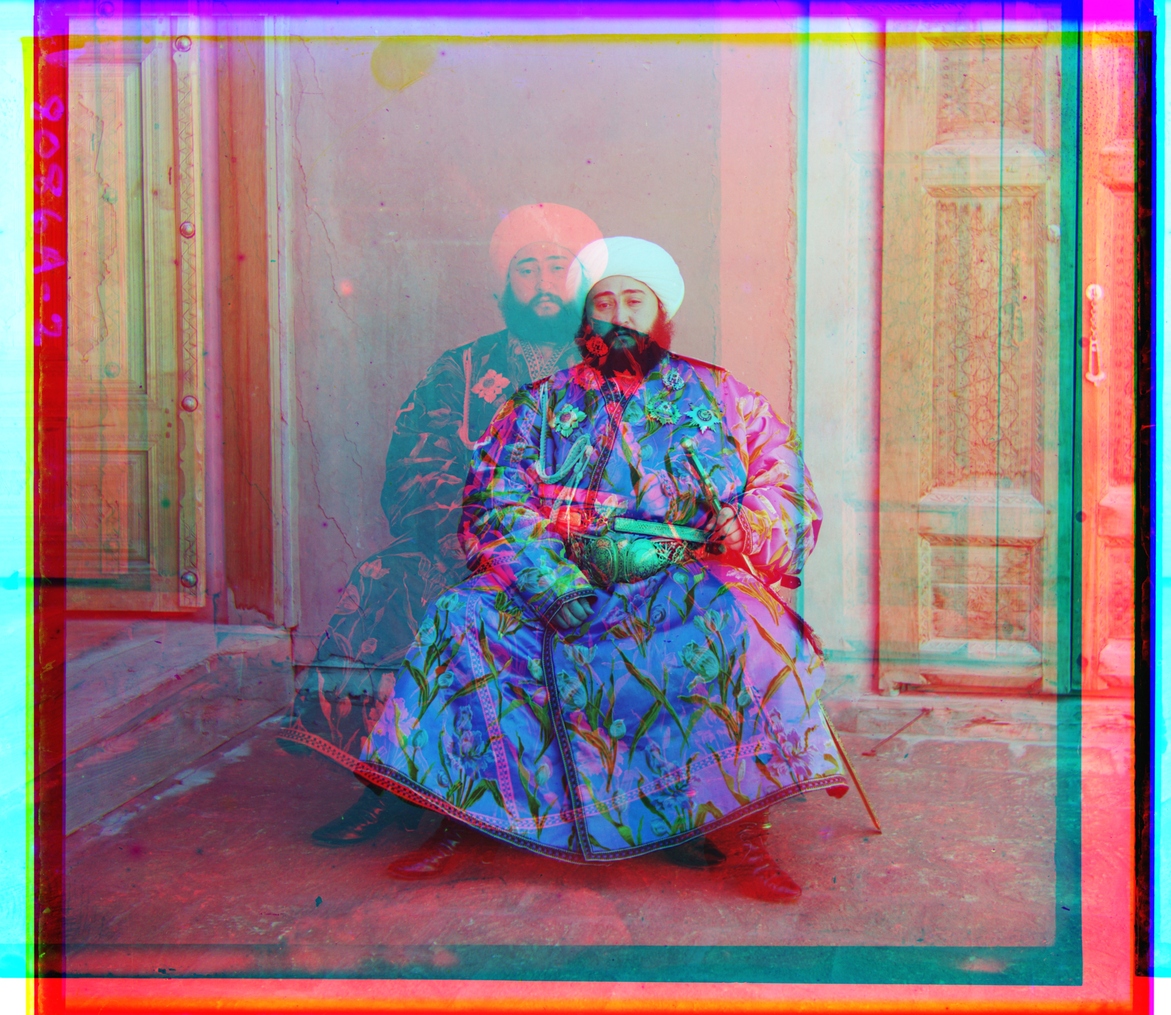
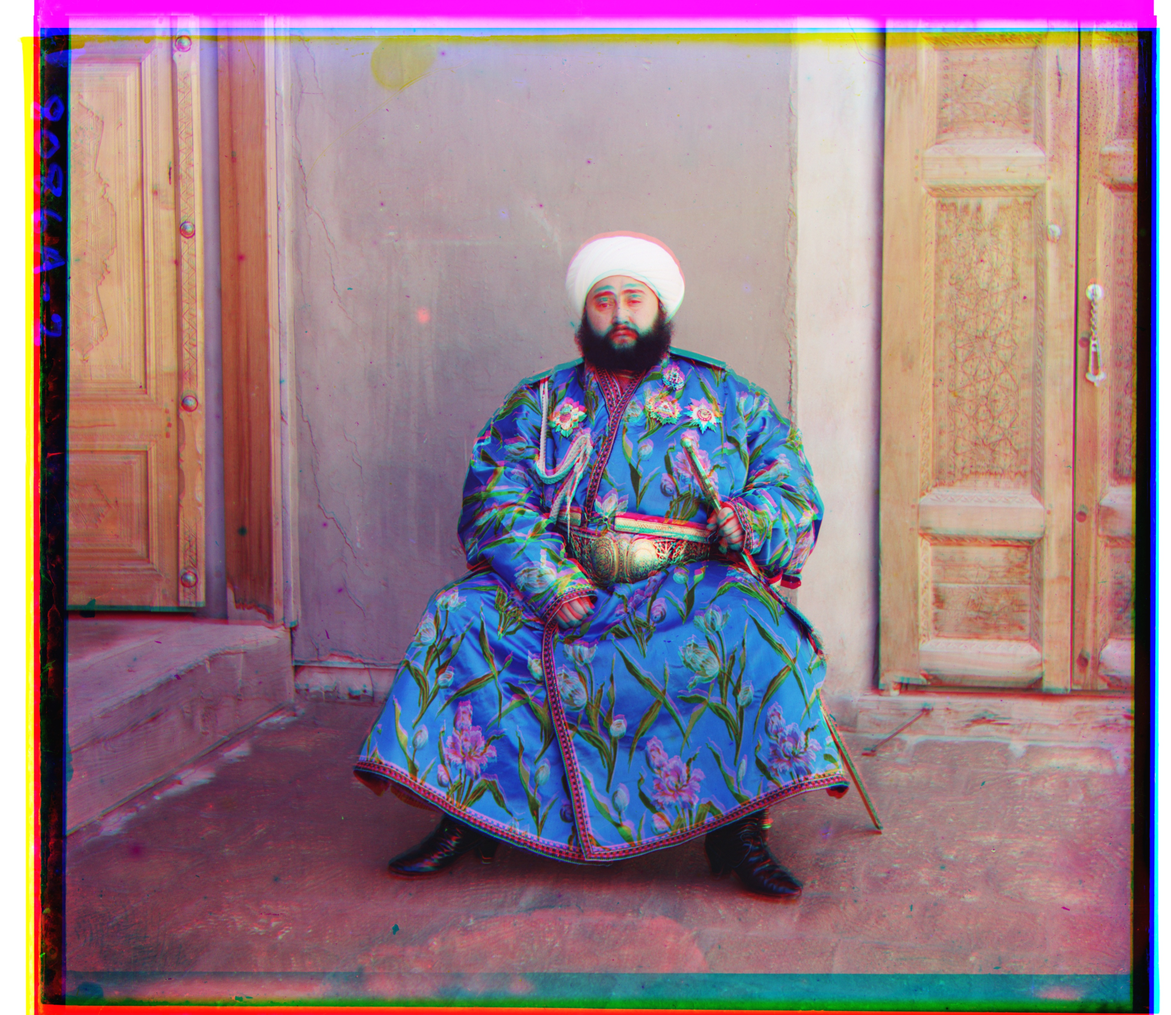
Updated project 1 website

diff --git a/CS180Project1/index.html b/CS180Project1/index.html
@@ -42,7 +42,7 @@
             <p>
                 First, the image is read in grayscale, converted to float64, and the pixel values are normalized to the range [0,1]. The height of the image is then divided by three which is then used to separate it into its blue, green, and red components. The green and red channels are subsequently aligned to the blue channel.<br><br>
 
-                Alignment begins with preprocessing. I found images like emir.tif and cathedral.jpg particularly challenging to align because the intensity values across channels differed so much. To address this, I implemented an edge-based method instead of relying solely on raw pixel intensities. When the Sobel flag is enabled, a Sobel edge detector computes the gradient magnitude, and alignment is performed on these edge maps. With the Sobel flag enabled, I was able to accurately align all of the images. This approach proved far more effective and is discussed further in the Bells & Whistles section below.<br><br>
+                Alignment begins with preprocessing. I found images like emir.tif particularly challenging to align because the intensity values across channels differed so much. To address this, I implemented an edge-based method instead of relying solely on raw pixel intensities. When the Sobel flag is enabled, a Sobel edge detector computes the gradient magnitude, and alignment is performed on these edge maps. With the Sobel flag enabled, I was able to accurately align all of the images. This approach proved far more effective and is discussed further in the Bells & Whistles section below.<br><br>
 
                 The actual alignment is handled with an image pyramid. The images are recursively downsampled (to depth 2 for .jpg and depth 5 for .tif images), and alignment is first estimated at the coarsest scale. At each level, one image is shifted within a search window, and a scoring function evaluates the alignment quality. Each image is cropped by about 10% (an empirically chosen value to remove noisy borders) before a score is calculated. I implemented both Euclidean distance and Normalized Cross-Correlation as scoring metrics, though I opted to use Euclidean distance. After offsets are found at a coarse scale, they are doubled when passed to the next finer scale, where the search is repeated in the same range around those offsets. The coarse-to-fine image pyramid approach makes alignment efficient for both large files (.tif) and smaller files (.jpg), significantly reducing computation time while maintaining accuracy.<br><br>
 
@@ -84,7 +84,7 @@
             <figcaption>
                 harvester.tif <br>
                 Green offset: (17, 60) <br>
-                Red offset: (13, 123)
+                Red offset: (14, 124)
             </figcaption>
         </figure>        
         
@@ -98,11 +98,29 @@
         </figure>
 
         <figure>
-            <img src="./images/out_lady.jpg">
+            <img src="./images/out_italil.jpg">
             <figcaption>
-                lady.tif <br>
-                Green offset: (9, 56) <br>
-                Red offset: (13, 120)
+                italil.tif <br>
+                Green offset: (22, 38) <br>
+                Red offset: (36, 77)
+            </figcaption>
+        </figure>
+
+        <figure>
+            <img src="./images/out_lastochikino.jpg">
+            <figcaption>
+                lastochikino.tif <br>
+                Green offset: (-2, -3) <br>
+                Red offset: (-8, 76)
+            </figcaption>
+        </figure>
+
+        <figure>
+            <img src="./images/out_lugano.jpg">
+            <figcaption>
+                lugano.tif <br>
+                Green offset: (-17, 41) <br>
+                Red offset: (-29, 791)
             </figcaption>
         </figure>
 
@@ -125,29 +143,20 @@
         </figure>
 
         <figure>
-            <img src="./images/out_onion_church.jpg">
-            <figcaption>
-                onion_church.tif <br>
-                Green offset: (24, 52) <br>
-                Red offset: (36, 107)
-            </figcaption>
-        </figure>
-
-        <figure>
-            <img src="./images/out_sculpture.jpg">
-            <figcaption>
-                sculpture.tif <br>
-                Green offset: (-11, 33) <br>
-                Red offset: (-26, 140)
-            </figcaption>
-        </figure>
-
-        <figure>
             <img src="./images/out_self_portrait.jpg">
             <figcaption>
                 self_portrait.tif <br>
-                Green offset: (29, 78) <br>
+                Green offset: (28, 77) <br>
                 Red offset: (37, 176)
+            </figcaption>
+        </figure>
+
+        <figure>
+            <img src="./images/out_siren.jpg">
+            <figcaption>
+                siren.jpg <br>
+                Green offset: (-7, 49) <br>
+                Red offset: (-24, 96)
             </figcaption>
         </figure>
 
@@ -163,18 +172,9 @@
         <figure>
             <img src="./images/out_tobolsk.jpg">
             <figcaption>
-                tobolsk.jpg <br>
-                Green offset: (3, 3) <br>
+                tobolsk.tif <br>
+                Green offset: (2, 3) <br>
                 Red offset: (3, 6)
-            </figcaption>
-        </figure>
-
-        <figure>
-            <img src="./images/out_train.jpg">
-            <figcaption>
-                train.tif <br>
-                Green offset: (1, 41) <br>
-                Red offset: (29, 85)
             </figcaption>
         </figure>
     </div>
@@ -216,7 +216,7 @@
 
             To overcome this, I implemented a more robust alignment metric using a Sobel edge detector. The core idea is to align the images based on their structural features rather than their brightness. Edges are far more likely to be consistent across the R, G, and B channels. <br><br>
 
-            My implementation first applies the Sobel edge detector to each channel to compute the gradient magnitude. This effectively creates a map of the prominent edges in each image. The pyramid alignment algorithm then uses these edge maps instead of the original pixel intensities as the basis for comparison. As seen in the results for emir.tif and cathedral.tif, this method is highly effective, producing a dramatically sharper and more accurate alignment where the intensity-based approach fails.
+            My implementation first applies the Sobel edge detector to each channel to compute the gradient magnitude. This effectively creates a map of the prominent edges in each image. The pyramid alignment algorithm then uses these edge maps instead of the original pixel intensities as the basis for comparison. As seen in the results for emir.tif, this method is highly effective, producing a dramatically sharper and more accurate alignment where the intensity-based approach fails.
         </p>
         <figure>
             <img src="./images/out_no_sobel_emir.jpg">
@@ -227,16 +227,7 @@
             <img src="./images/out_emir.jpg">
             <figcaption>emir.tif aligned using edges</figcaption>
         </figure>
-
-        <figure>
-            <img src="./images/out_no_sobel_cathedral.jpg">
-            <figcaption>cathedral.tif aligned using pixel intensities</figcaption>
-        </figure>
-
-        <figure>
-            <img src="./images/out_cathedral.jpg">
-            <figcaption>cathedral.tif aligned using edges</figcaption>
-        </figure>
+        
     </div>
     <div>
         <h2>Conclusion</h2>
